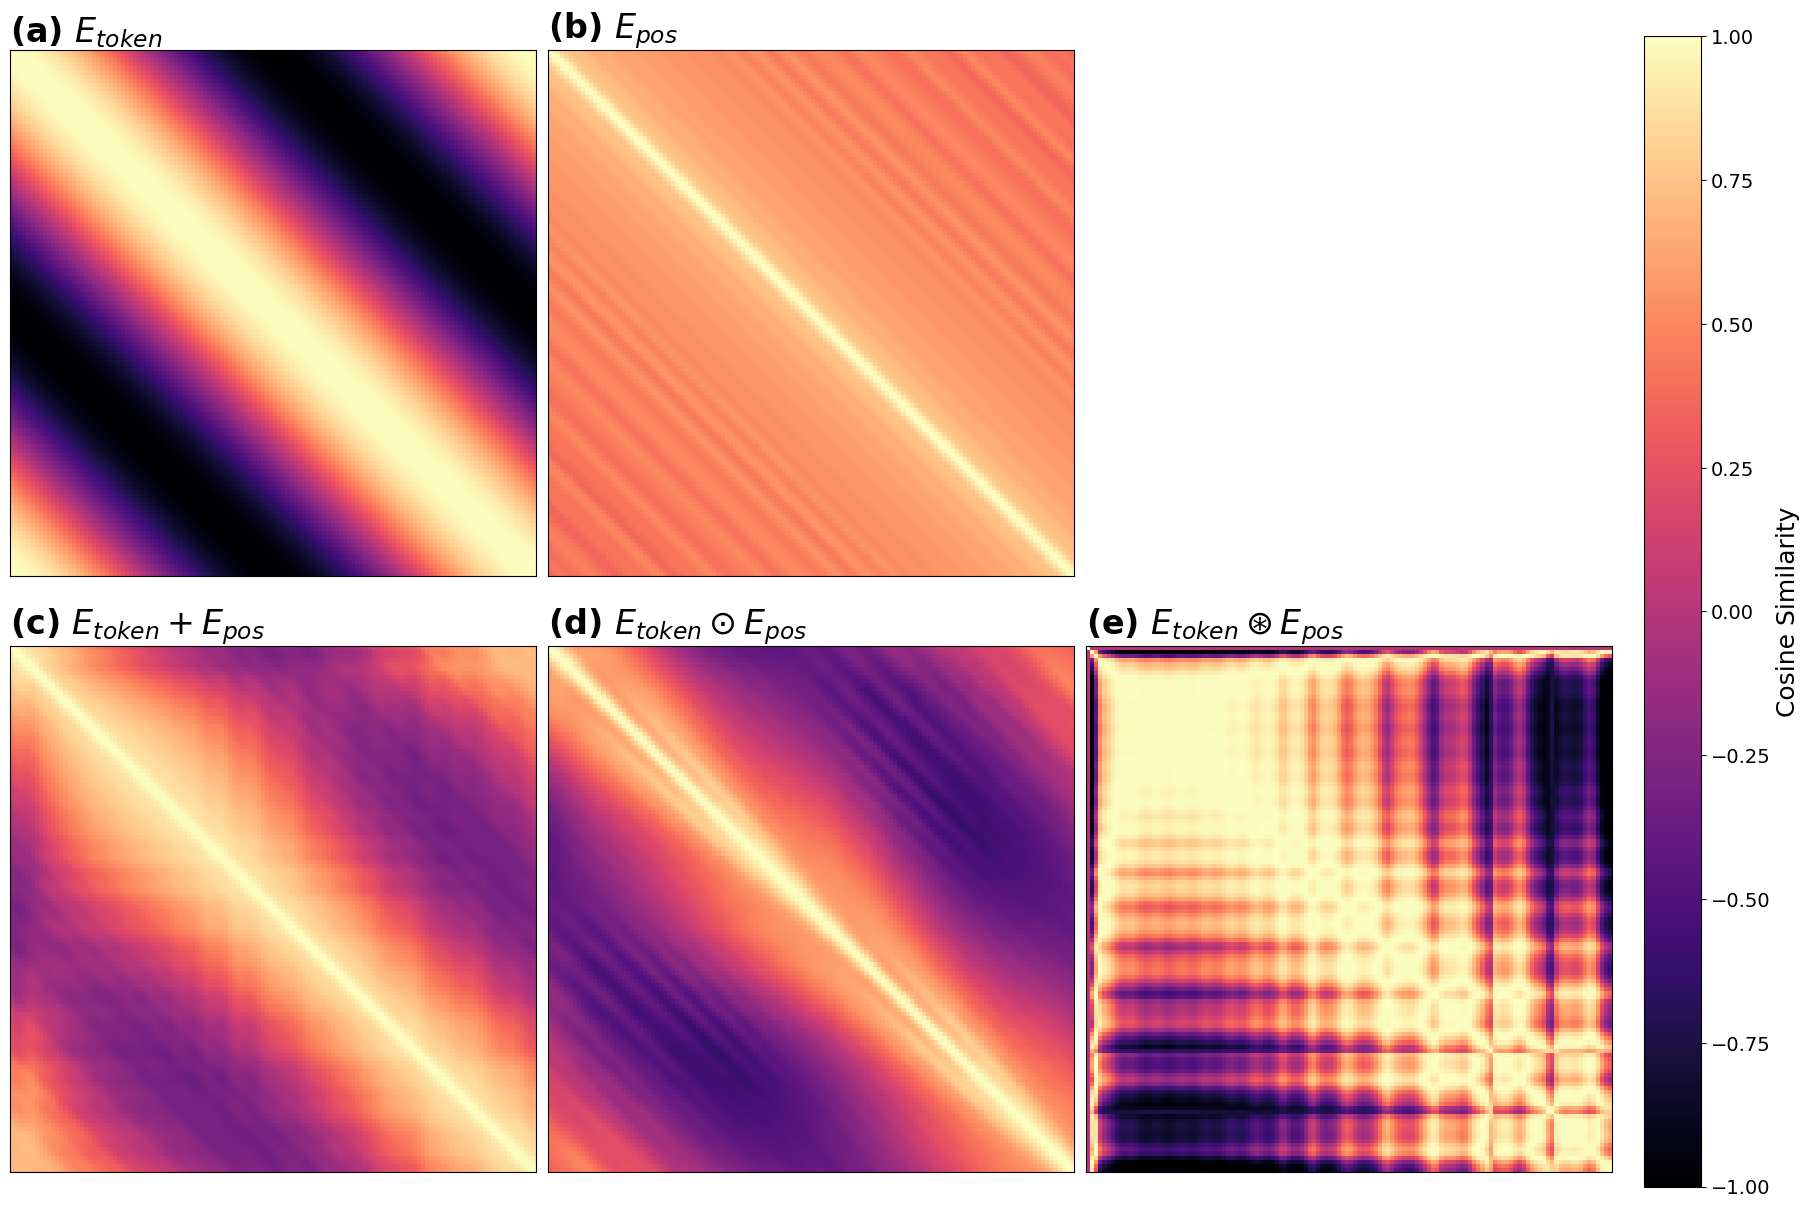
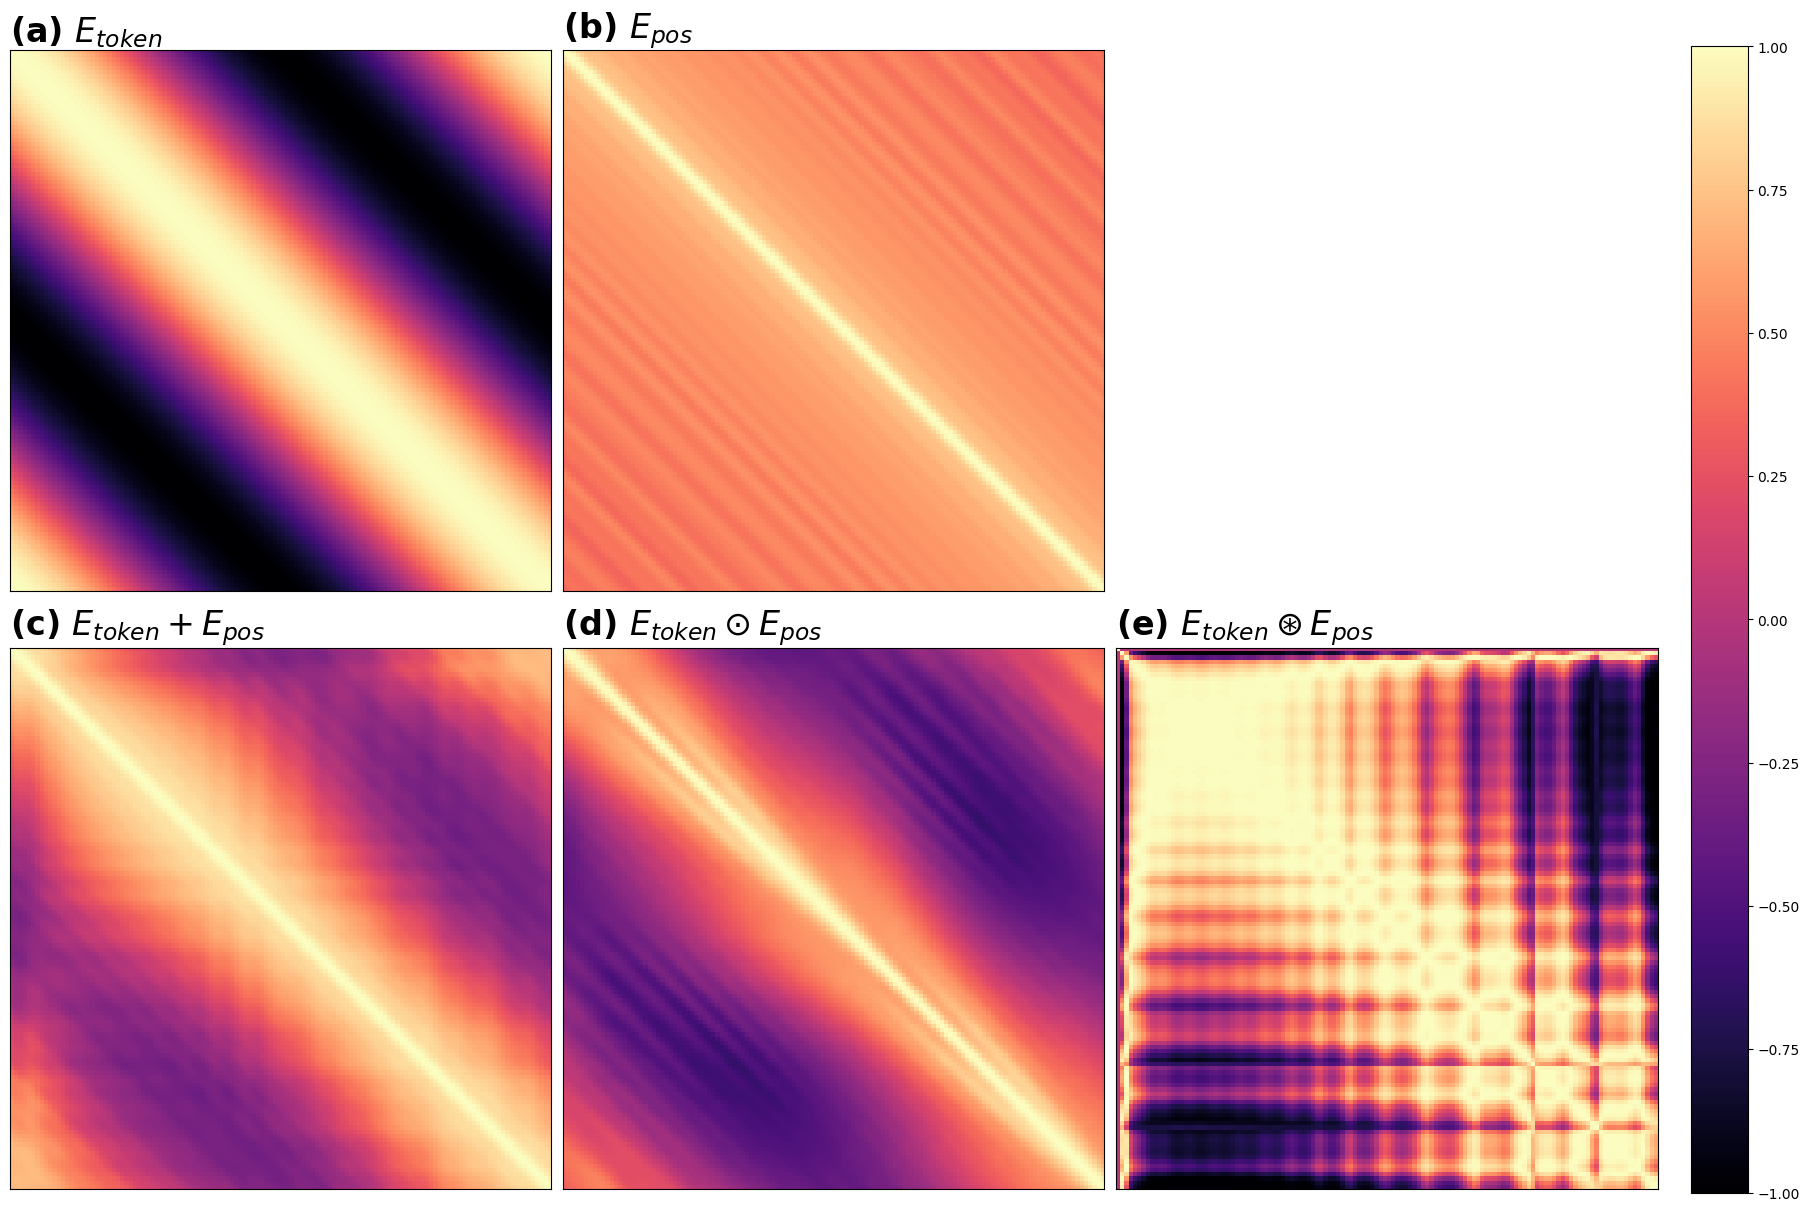
polishing touches

diff --git a/src/experiments/visualization/binding.py b/src/experiments/visualization/binding.py
@@ -78,7 +78,7 @@ def plot_1d_signal_comparison(
     dimension_to_plot: int,
     num_positions: int,
     output_path: pathlib.Path | None = None,
-) -> tuple[pyplot.Figure, pyplot.Axes]:
+) -> tuple[pyplot.Figure, numpy.ndarray[pyplot.Axes]]:
     """Plots a comparison of 1D signals from a single dimension of the embeddings.
 
     Args:
@@ -154,7 +154,9 @@ def plot_1d_signal_comparison(
     return fig, axs
 
 
-def replot_1d_signal_clean(fig: pyplot.Figure, axs: pyplot.Axes, output_path: pathlib.Path | None = None) -> None:
+def replot_1d_signal_clean(
+    fig: pyplot.Figure, axs: numpy.ndarray[pyplot.Axes], output_path: pathlib.Path | None = None
+) -> None:
     """Replots a given figure after removing titles, axes, and legends.
 
     Args:
@@ -165,12 +167,47 @@ def replot_1d_signal_clean(fig: pyplot.Figure, axs: pyplot.Axes, output_path: pa
     # Remove the super title
     fig.suptitle("")
 
-    # Turn off all axes, which removes labels, ticks, and spines
-    # for ax in axs.flat:
-    #     ax.axis("off")
-
     # Reactivate the figure
     pyplot.figure(fig.number)
+
+    # --- Add arrows pointing from the source plot to the destination plots ---
+    # Get the source subplot (ingredients)
+    source_ax = axs[0][1]
+    # Use figure coordinates (0,0 is bottom-left, 1,1 is top-right) for positioning
+    source_pos = source_ax.get_position()
+    x_start = source_pos.x0 + source_pos.width / 2
+    y_start = source_pos.y0  # Start from the bottom of the source plot
+
+    # Define destination subplots (products) and arrow curvatures
+    dest_info = {
+        axs[1][0]: 0.2,  # Additive result, curve right
+        axs[1][1]: 0,  # Multiplicative result, straight
+        axs[1][2]: -0.2,  # Convolutional result, curve left
+    }
+    hshifts = [-0.15, 0, 0.15]  # Slight horizontal shifts for clarity
+    vshifts = [0.1, 0, 0.1]  # Slight vertical shifts for clarity
+
+    for (dest_ax, rad), (hshift, vshift) in zip(dest_info.items(), zip(hshifts, vshifts)):
+        dest_pos = dest_ax.get_position()
+        x_end = dest_pos.x0 + dest_pos.width / 2
+        y_end = dest_pos.y1  # End at the top of the destination plot
+
+        # Define arrow properties
+        arrow_props = dict(
+            arrowstyle="->, head_width=0.4, head_length=0.8",
+            color="gray",
+            linewidth=2,
+            connectionstyle=f"arc3,rad={rad}",
+        )
+
+        # Add the arrow annotation to the FIGURE, not the axes
+        dest_ax.annotate(
+            "",  # No text
+            xy=(x_end, y_end),  # Arrow destination
+            xytext=(x_start + hshift, y_start + vshift),  # Arrow start
+            xycoords="figure fraction",
+            arrowprops=arrow_props,
+        )
 
     # Reactivate each axis and turn off the axes
     for ax in axs.flat:
@@ -178,7 +215,7 @@ def replot_1d_signal_clean(fig: pyplot.Figure, axs: pyplot.Axes, output_path: pa
         ax.axis("off")
 
     if output_path:
-        fig.savefig(output_path, bbox_inches="tight")
+        fig.savefig(output_path)  # , bbox_inches="tight")
         print(f"Cleaned 1D signal plot saved to: {output_path}")
 
     fig.show()
@@ -242,9 +279,9 @@ def plot_similarity_matrices(
     # fig.suptitle("Impact of Binding Operations on Embedding Similarity Structure", fontsize=30, fontweight="bold")
 
     # Add a single colorbar for the entire figure
-    cbar = fig.colorbar(im1, ax=axes, orientation="vertical", fraction=0.05, pad=0.02)
-    cbar.set_label("Cosine Similarity", fontsize=18)
-    cbar.ax.tick_params(labelsize=14)
+    fig.colorbar(im1, ax=axes, orientation="vertical", fraction=0.05, pad=0.02)  # = cbar
+    # cbar.set_label("Cosine Similarity", fontsize=18)
+    # cbar.ax.tick_params(labelsize=14)
 
     # Save the figure
     if output_path:

diff --git a/src/experiments/visualization/similarity_shapes.py b/src/experiments/visualization/similarity_shapes.py
@@ -24,7 +24,7 @@ MetricStr = Literal["cosine", "product"]
 set_plot_style()
 
 
-def calculate_similarity_from_center(
+def calculate_similarity_from_position(
     pe_weights: torch.Tensor, pos_ref: int, metric: MetricStr
 ) -> Tuple[numpy.ndarray, numpy.ndarray]:
     """Calculates the similarity between the reference position's encoding and all other positions' encodings.
@@ -73,7 +73,7 @@ def calculate_similarity_from_center(
     return relative_positions.numpy(), similarities.numpy()
 
 
-def plot_similarity_from_center(  # noqa: C901
+def plot_similarity_from_position(  # noqa: C901
     plot_configurations: dict,
     plot_path: pathlib.Path | None = None,
     pos_ref: int | None = None,
@@ -135,7 +135,7 @@ def plot_similarity_from_center(  # noqa: C901
         pe_weights = pos_encoder.encodings.detach().squeeze(0)
 
         # Calculate Similarity Profile
-        relative_positions, similarities = calculate_similarity_from_center(
+        relative_positions, similarities = calculate_similarity_from_position(
             pe_weights=pe_weights, pos_ref=pos_ref, metric=metric
         )
         if relative_positions.size > 0:  # Only store if calculation was successful
@@ -225,7 +225,7 @@ if __name__ == "__main__":
     }
 
     print("\n=== Plotting Comparison of Different PE Types ===")
-    plot_similarity_from_center(
+    plot_similarity_from_position(
         plot_configurations=configs_compare_types,
         num_positions=num_positions_for_sim,
         d_model=d_model,
@@ -246,7 +246,7 @@ if __name__ == "__main__":
     }
 
     print("\n=== Plotting Comparison of Fractional Power Parameters ===")
-    plot_similarity_from_center(
+    plot_similarity_from_position(
         plot_configurations=configs_compare_params,
         num_positions=num_positions_for_sim,
         d_model=d_model,
@@ -273,7 +273,7 @@ if __name__ == "__main__":
     }
     print("\n=== Plotting Comparison for Different Reference Positions ===")
     for pos_ref_test in [0, num_positions_for_sim // 2]:
-        plot_similarity_from_center(
+        plot_similarity_from_position(
             plot_configurations=configs_for_pos_ref,
             num_positions=num_positions_for_sim,
             pos_ref=pos_ref_test,  # Set specific reference position
@@ -288,7 +288,7 @@ if __name__ == "__main__":
 
     # Example 4: dot product as metric
     print("\n=== Plotting Comparison using Dot Product Metric ===")
-    plot_similarity_from_center(
+    plot_similarity_from_position(
         plot_configurations=configs_compare_types,  # Reuse type comparison config
         num_positions=num_positions_for_sim,
         d_model=d_model,
